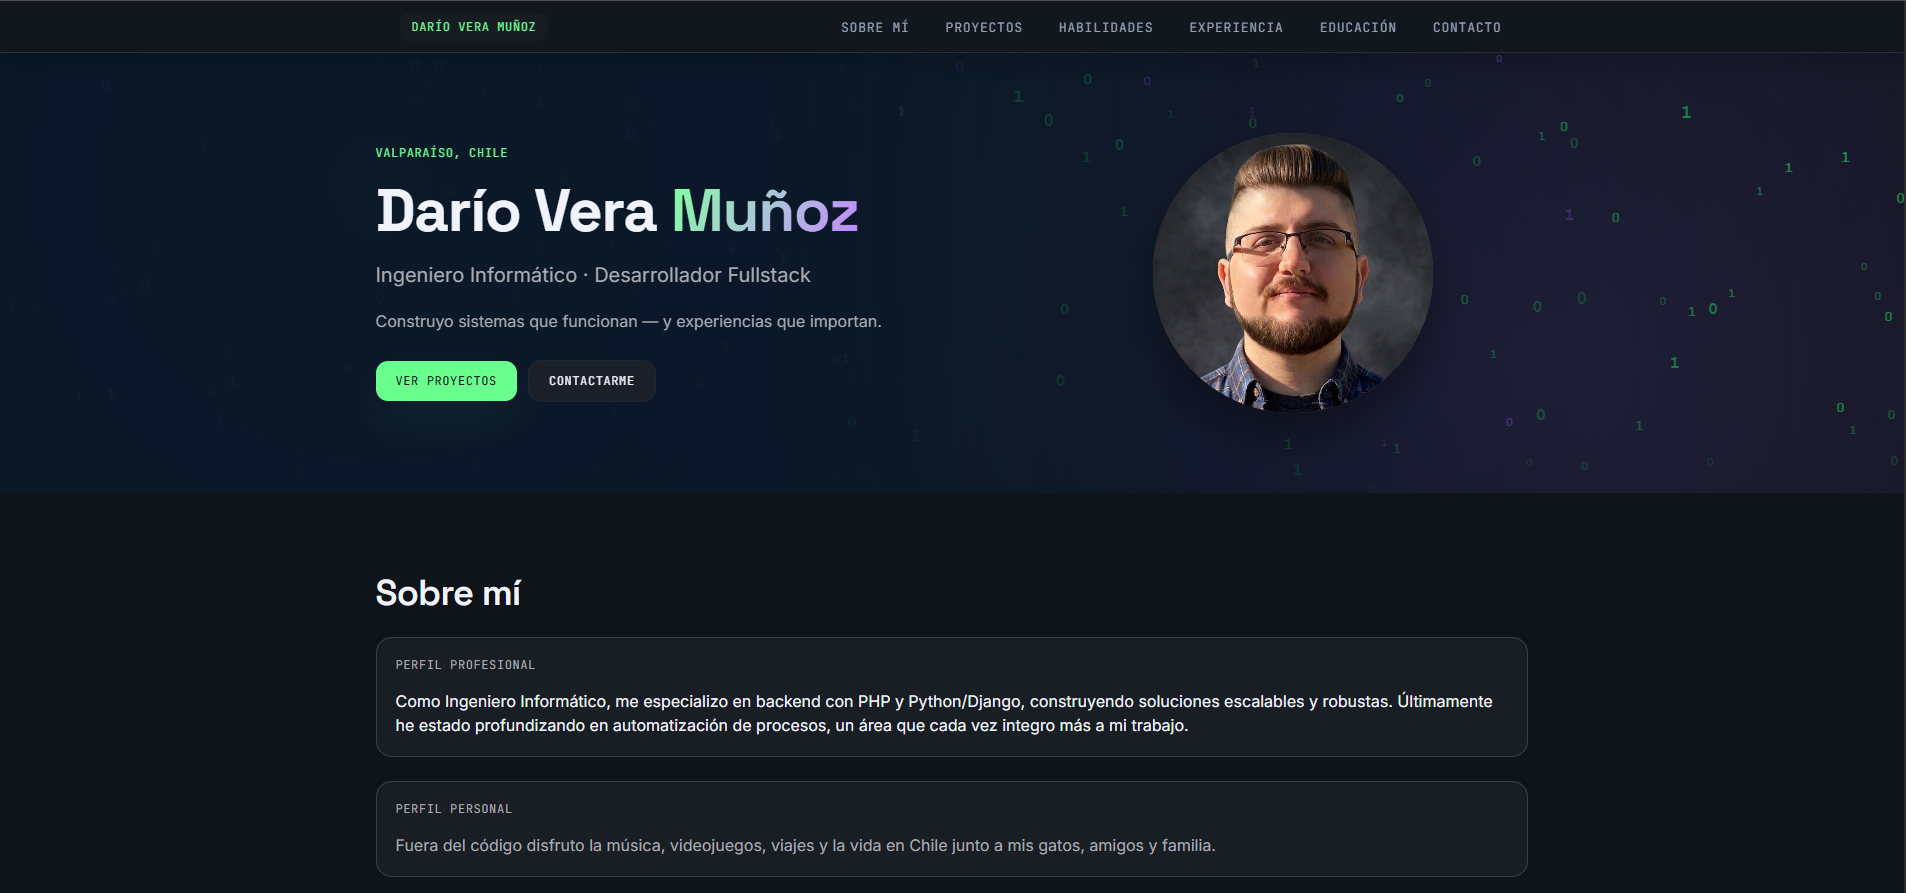
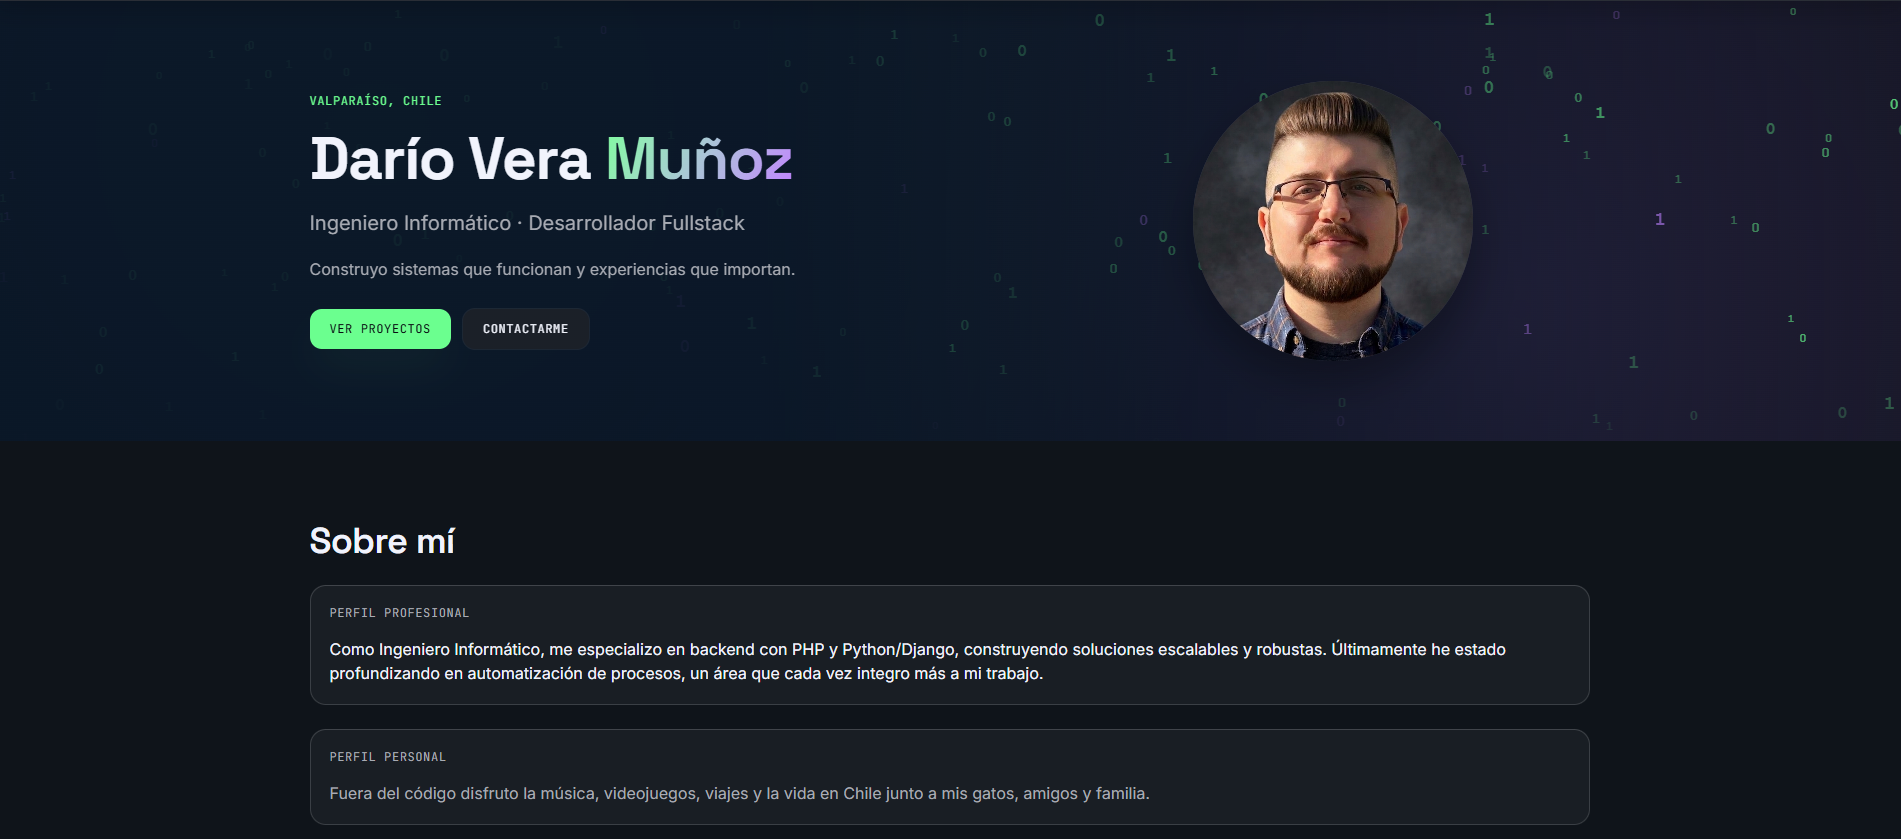
animations and contact upgrades

diff --git a/src/components/Experience.jsx b/src/components/Experience.jsx
@@ -59,8 +59,8 @@ function ExperienceCard({ item, reduce, ui }) {
               {(item?.achievements ?? []).map((achievement, achievementIndex) => (
                 <motion.li
                   key={achievement}
-                  initial={{ opacity: 0, x: -12 }}
-                  animate={{ opacity: 1, x: 0 }}
+                  initial={reduce ? { opacity: 1, x: 0 } : { opacity: 0, x: -12 }}
+                  animate={reduce ? undefined : { opacity: 1, x: 0 }}
                   transition={{
                     duration: 0.28,
                     delay: achievementIndex * 0.05,
@@ -124,24 +124,24 @@ function Experience({ data }) {
             <div className="flex flex-col items-center pt-2" aria-hidden="true">
               <motion.span
                 className="h-2 w-2 shrink-0 rounded-full bg-secondary shadow-[0_0_8px_rgba(193,128,255,0.7)]"
-                initial={{ scale: 0 }}
-                whileInView={{ scale: [0, 1.4, 1] }}
+                initial={reduce ? { scale: 1 } : { scale: 0 }}
+                whileInView={reduce ? undefined : { scale: [0, 1.4, 1] }}
                 viewport={{ once: true }}
                 transition={{
-                  duration: 0.4,
-                  times: [0, 0.6, 1],
-                  ease: "easeOut",
+                  type: 'spring',
+                  stiffness: 400,
+                  damping: 15,
                   delay: index * 0.1,
                 }}
               />
               <motion.span
                 className="mt-2 w-px bg-outline-variant/30"
-                initial={{ scaleY: 0 }}
-                whileInView={{ scaleY: 1 }}
+                initial={reduce ? { scaleY: 1 } : { scaleY: 0 }}
+                whileInView={reduce ? undefined : { scaleY: 1 }}
                 viewport={{ once: true, amount: 0.1 }}
                 transition={{
-                  duration: 0.55,
-                  ease: [0.22, 1, 0.36, 1],
+                  duration: 0.8,
+                  ease: 'easeOut',
                   delay: index * 0.1,
                 }}
                 style={{ transformOrigin: "top", display: "block", height: "100%" }}

diff --git a/src/data/content.js b/src/data/content.js
@@ -192,9 +192,9 @@ export const content = {
     contact: {
       heading: "¿Trabajamos juntos?",
       channels: [
-        { type: "email", label: "Email", href: "mailto:contacto@dariodvm.dev" },
-        { type: "linkedin", label: "LinkedIn", href: "#" },
-        { type: "github", label: "GitHub", href: "#" },
+        { type: "email", label: "Email", href: "mailto:darioveramunoz@gmail.com" },
+        { type: "linkedin", label: "LinkedIn", href: "https://www.linkedin.com/in/dario-veram" },
+        { type: "github", label: "GitHub", href: "https://github.com/dariovm96" },
       ],
       form: {
         fields: [
@@ -438,9 +438,9 @@ export const content = {
     contact: {
       heading: "Work together?",
       channels: [
-        { type: "email", label: "Email", href: "mailto:contacto@dariodvm.dev" },
-        { type: "linkedin", label: "LinkedIn", href: "#" },
-        { type: "github", label: "GitHub", href: "#" },
+        { type: "email", label: "Email", href: "mailto:darioveramunoz@gmail.com" },
+        { type: "linkedin", label: "LinkedIn", href: "https://www.linkedin.com/in/dario-veram" },
+        { type: "github", label: "GitHub", href: "https://github.com/dariovm96" },
       ],
       form: {
         fields: [

diff --git a/src/components/Navbar.jsx b/src/components/Navbar.jsx
@@ -51,10 +51,8 @@ function Navbar({ data = [], brand = null }) {
       pillRef.current.style.opacity = '0'
       return
     }
-    const ulRect = navListRef.current.getBoundingClientRect()
-    const linkRect = activeLink.getBoundingClientRect()
-    pillRef.current.style.left = `${linkRect.left - ulRect.left}px`
-    pillRef.current.style.width = `${linkRect.width}px`
+    pillRef.current.style.left = `${activeLink.offsetLeft}px`
+    pillRef.current.style.width = `${activeLink.offsetWidth}px`
     pillRef.current.style.opacity = '1'
   }, [activeSection])
 
@@ -137,7 +135,7 @@ function Navbar({ data = [], brand = null }) {
                 </li>
               )
             })}
-            <div ref={pillRef} className="nav-active-pill" aria-hidden="true" />
+            <span ref={pillRef} className="nav-active-pill" aria-hidden="true" />
           </ul>
           <LanguageToggle />
         </div>
